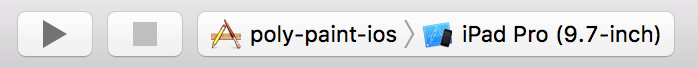
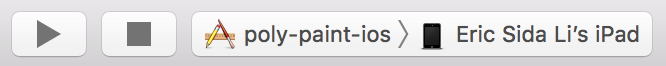
Update running app on iPad Mini 4 documentation

diff --git a/README.md b/README.md
@@ -48,15 +48,33 @@ pod install
 
 Open project in XCode:
 
-[![XCode version](https://img.shields.io/badge/version-9.X-blue.svg)](https://shields.io/)
+[![XCode version](https://img.shields.io/badge/version-9.4+-blue.svg)](https://shields.io/)
 
 ```Bash
 open poly-paint-ios.xcworkspace/
 ```
 
+#### Simulator
 Select iPad Pro (9.7 inch) as target, and click the play button to run the simulator.
 
+![xcode-run-ipad-simulator](docs/images/xcode-run-ipad-simulator.png)
+
+#### iPad Mini 4
+Select your iPad as target (e.g. Eric Sida Li's iPad), and click the play button to install the app on the device.
+
 ![xcode-run-ipad](docs/images/xcode-run-ipad.png)
+
+If this is the first time running the app, you will have to grant it permissions on the iPad. Go to General -> Device Management:
+
+![xcode-run-ipad](docs/images/ipad/general-device-management.jpeg)
+
+Tap on your developer account:
+
+![xcode-run-ipad](docs/images/ipad/device-management-developer.jpeg)
+
+Verify the app:
+
+![xcode-run-ipad](docs/images/ipad/app-permission.jpeg)
 
 ### Windows Client
 
